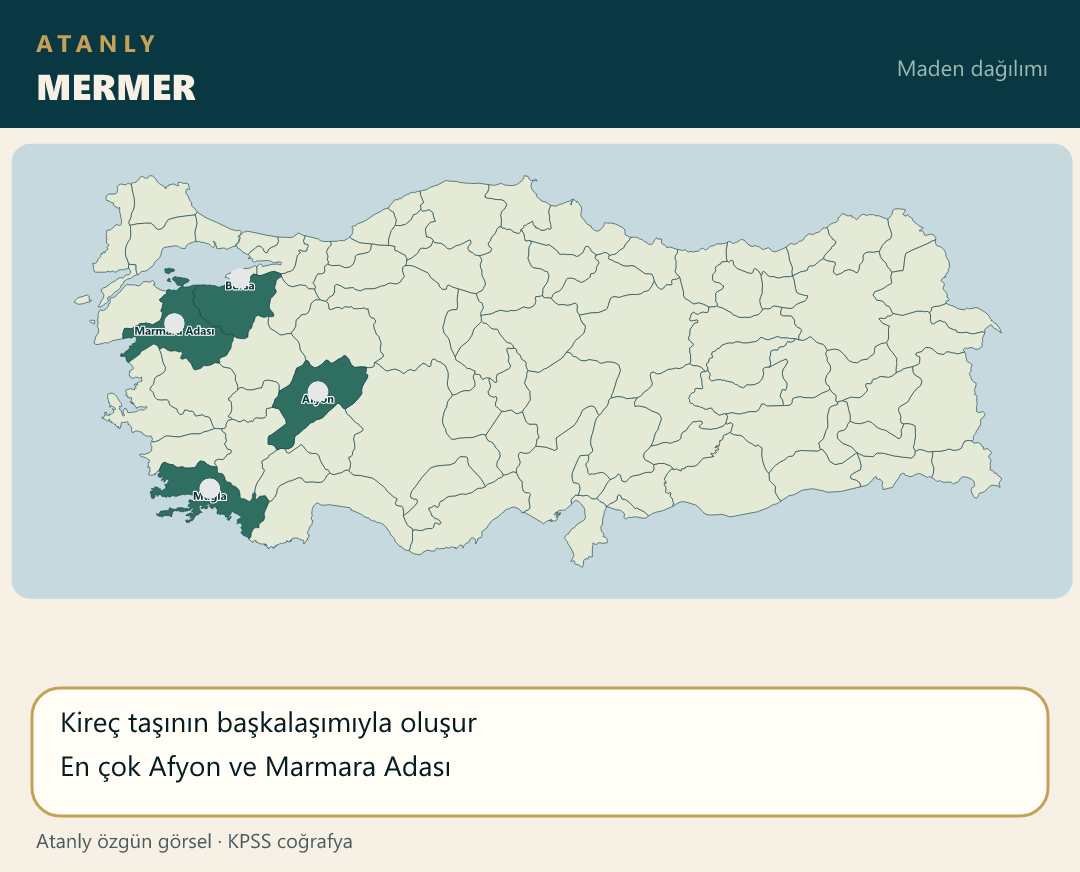
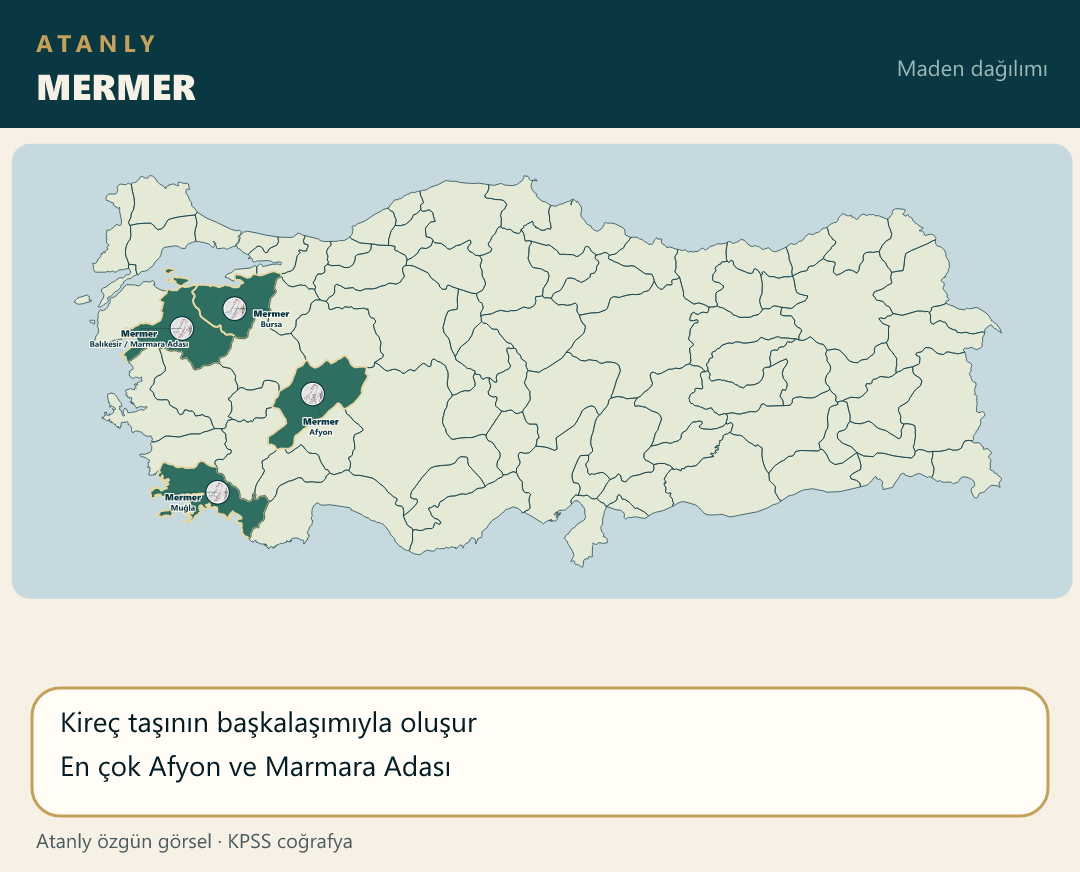
Place the marble photo on Afyon, Balikesir, Mugla, and Bursa land-center pins.

diff --git a/scripts/build-atanly-maps.js b/scripts/build-atanly-maps.js
@@ -1030,8 +1030,13 @@ function main() {
                 { il: "Eskişehir", ilce: "Kırka", ldx: 40, ldy: -10 }
             ],
             facts: ["Dünya rezervinin yaklaşık %72’si Türkiye’dedir", "İşleme: Kırka ve Bandırma", "İhraç edilir"] },
-        { file: "maden_mermer.png", title: "MERMER", iller: ["Afyon", "Balıkesir", "Muğla", "Bursa"],
-            yazilar: ["Afyon", "Marmara Adası", "Muğla", "Bursa"],
+        { file: "maden_mermer.png", title: "MERMER", urun: "Mermer",
+            noktalar: [
+                { il: "Afyon", ldx: 8, ldy: 30 },
+                { il: "Balıkesir", ilce: "Marmara Adası", ldx: -42, ldy: 8 },
+                { il: "Muğla", ldx: -34, ldy: 8 },
+                { il: "Bursa", ldx: 36, ldy: 8 }
+            ],
             facts: ["Kireç taşının başkalaşımıyla oluşur", "En çok Afyon ve Marmara Adası"] },
         { file: "maden_fosfat.png", title: "FOSFAT", urun: "Fosfat",
             noktalar: [

diff --git a/notlar/cografya-21-not.js b/notlar/cografya-21-not.js
@@ -2,7 +2,7 @@
 (function () {
     function harita(src, alt) {
         return '<div class="mt-4 overflow-hidden rounded-xl border border-blue-200 dark:border-blue-700/50 bg-white dark:bg-slate-800 p-2">' +
-            '<img src="./src/img/' + src + '?v=29" alt="' + alt + ' Haritası" class="w-full h-auto rounded-lg object-contain" loading="lazy">' +
+            '<img src="./src/img/' + src + '?v=30" alt="' + alt + ' Haritası" class="w-full h-auto rounded-lg object-contain" loading="lazy">' +
             "</div>";
     }
 

diff --git a/index.html b/index.html
@@ -119,7 +119,7 @@
     <script src="notlar/cografya-18-not.js?v=17"></script>
     <script src="notlar/cografya-19-not.js?v=25"></script>
     <script src="notlar/cografya-20-not.js?v=1"></script>
-    <script src="notlar/cografya-21-not.js?v=22"></script>
+    <script src="notlar/cografya-21-not.js?v=23"></script>
     <script src="notlar/cografya-22-not.js?v=1"></script>
     <script src="notlar/cografya-23-not.js?v=1"></script>
     <script src="notlar/cografya-24-not.js?v=1"></script>
